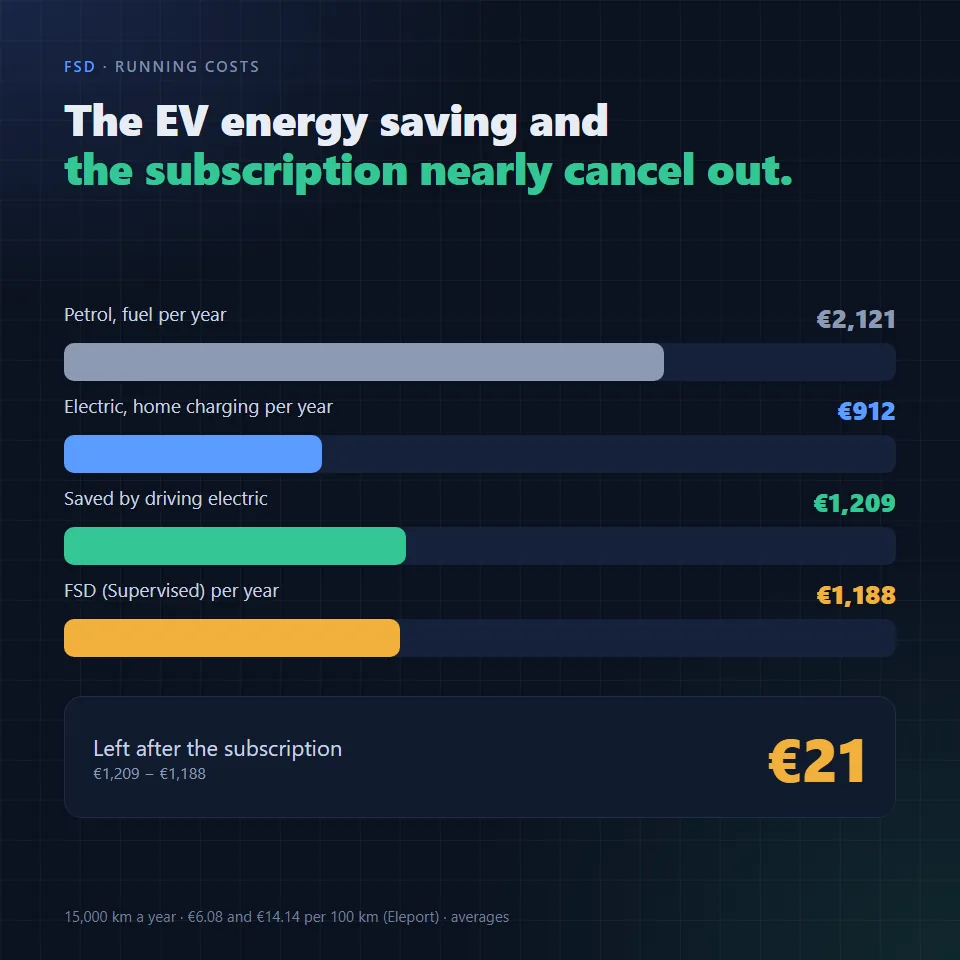
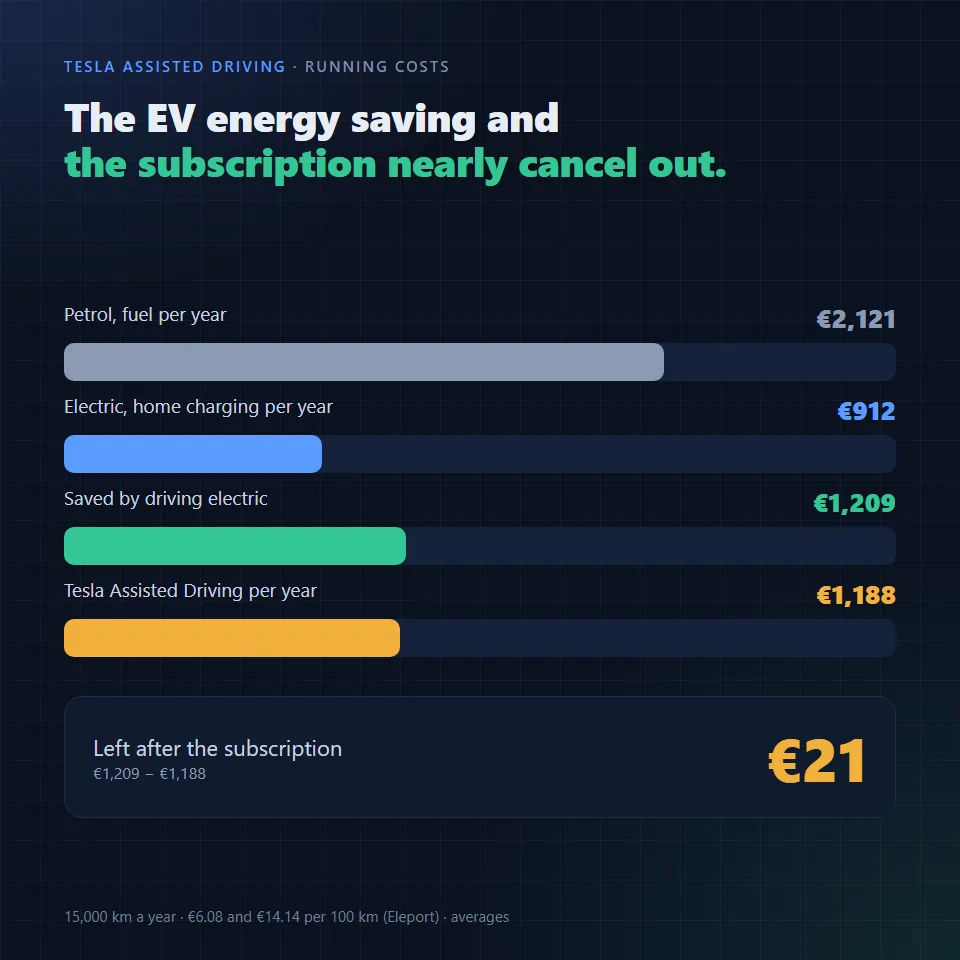
feat: call the current product Tesla Assisted Driving in the FSD draft, keep FSD where historical

Changed region(s): [[0.0625, 0.0625, 0.8125, 0.2188], [0.0625, 0.5938, 0.3438, 0.625]]

diff --git a/blog/content/tesla-fsd-subscription-europe/tr.md b/blog/content/tesla-fsd-subscription-europe/tr.md
@@ -1,6 +1,6 @@
 ---
-title: 'Zaten sahip olduğumuz donanım için her ay ödeme: Tesla’ya Avrupa’da FSD konusunda bir öneri'
-description: 'FSD (Supervised) Hollanda’da aylık €99. Bir Model Y sahibi tek seferlik satın alma ve peşin paketler öneriyor; maliyetler, AB kuralları, kaynaklar.'
+title: 'Zaten sahip olduğumuz donanım için her ay ödeme: Tesla’ya Avrupa’da Assisted Driving (FSD) için bir öneri'
+description: 'Tesla Assisted Driving (FSD) Hollanda’da aylık €99. Bir Model Y sahibi tek seferlik satın alma ve peşin paketler öneriyor; maliyetler ve kaynaklarla.'
 publishedAt: 2026-11-19
 topic: life
 kind: essay
@@ -31,15 +31,15 @@ translation:
   assistedByAi: true
 ---
 
-![Grafik: aylık €99 olan FSD (Supervised) aboneliği 1 yılda €1.188, 5 yılda €5.940 ve 10 yılda €11.880 tutuyor.](cost-over-time-tr.webp)
+![Grafik: aylık €99 olan Tesla Assisted Driving aboneliği 1 yılda €1.188, 5 yılda €5.940 ve 10 yılda €11.880 tutuyor.](cost-over-time-tr.webp)
 
-Hollanda’da Tesla FSD (Supervised) aylık €99 ve yeni alıcılar artık bu özelliği tek seferde satın alamıyor. Tesla’dan aylık aboneliğin yanında tek seferlik satın alma ve peşin ödemeli çok yıllık paketler sunmasını istiyorum. Bu yazıda gerçekleri, bir aracın ömrü boyunca maliyeti ve somut bir fiyat önerisini paylaşıyorum.
+Hollanda’da Tesla Assisted Driving, yani FSD (Supervised) olarak satılanın Avrupa’daki adı, aylık €99 ve yeni alıcılar artık bu özelliği tek seferde satın alamıyor. Tesla’dan aylık aboneliğin yanında tek seferlik satın alma ve peşin ödemeli çok yıllık paketler sunmasını istiyorum. Bu yazıda gerçekleri, bir aracın ömrü boyunca maliyeti ve somut bir fiyat önerisini paylaşıyorum.
 
 Amacım Tesla ile yapıcı bir diyalog kurmak, markaya saldırmak değil.
 
 ## Bu konu benim için neden önemli
 
-Bir Tesla Model Y Premium Long Range AWD satın aldım. Satın almadan önce test sürüşü yaptım ve birçok elektrikli aracı karşılaştırdım. Diğer markalarla kıyasladığımda Tesla deneyimim daha iyiydi, bu yüzden Tesla’yı seçtim. Gelecekte FSD desteği benim için önemliydi: ikinci el bir Model S Plaid’i, Hardware 3 bilgisayarı Avrupa’da yalnızca Hardware 4’lü araçlar için onaylanan FSD (Supervised)’ı desteklemediği için eledim. Tesla’da beğenmediğim tek şey, Avrupa’da Tesla Assisted Driving adıyla satılan sürüş desteğinin yalnızca abonelikle sunulması ve bence pahalı olması. Bu özelliklerin nasıl satıldığı da bu yüzden benim için önemli.
+Bir Tesla Model Y Premium Long Range AWD satın aldım. Satın almadan önce test sürüşü yaptım ve birçok elektrikli aracı karşılaştırdım. Diğer markalarla kıyasladığımda Tesla deneyimim daha iyiydi, bu yüzden Tesla’yı seçtim. Gelecekte Tesla Assisted Driving desteği benim için önemliydi: ikinci el bir Model S Plaid’i, Hardware 3 bilgisayarı onu desteklemediği ve Avrupa’da yalnızca Hardware 4’lü araçlar için onaylandığı için eledim. Tesla’da beğenmediğim tek şey, Tesla Assisted Driving’in yalnızca abonelikle sunulması ve bence pahalı olması. Bu özelliklerin nasıl satıldığı da bu yüzden benim için önemli.
 
 *Bu sayfadaki Tesla fotoğrafları benim aracıma ait değil. Wikimedia Commons’tan alındı.*
 
@@ -55,9 +55,9 @@ Bir Tesla Model Y Premium Long Range AWD satın aldım. Satın almadan önce tes
 
 Bu bilgiler, yazının sonunda listelenen kamuya açık kaynaklardan alındı.
 
-- Avrupa’da Tesla artık FSD (Supervised)’ı Tesla Assisted Driving adıyla satıyor ([Tesla Hollanda](https://www.tesla.com/nl_nl/tesla-assisted-driving)). Tesla’nın sayfası, şu anda sunulan özelliklerin sürücünün aktif gözetimini gerektirdiğini ve aracı otonom yapmadığını belirtiyor. Bu yazı, kaynakları kullandığı yerlerde FSD (Supervised) adını koruyor.
-- FSD (Supervised) Hollanda’da onaylandı. Hollanda araç kurumu RDW, 10 Nisan 2026’da Hardware 4’lü araçlar için onayladı; Electrek bunu Avrupa’daki ilk onay olarak bildiriyor ([Electrek, 14 Nisan 2026](https://electrek.co/2026/04/14/tesla-fsd-europe-hw3-owners-dutch-claim/)).
-- Hollanda’da FSD (Supervised), bir aylık deneme süresinin ardından aylık €99 ([teslablog.eu](https://teslablog.eu/blog/tesla-fsd-vs-enhanced-autopilot-europe-2026/), 3 Ekim 2026’da güncellendi; [Not a Tesla App](https://www.notateslaapp.com/news/3956/tesla-launches-fsd-subscriptions-in-the-netherlands)). Tesla’nın Hollanda sayfası bunu aylık €99’luk bir abonelik olarak listeliyor ve Model Y yapılandırıcısı, faturalandırma başlamadan önce bir aylık deneme süresi gösteriyor ([Tesla Hollanda](https://www.tesla.com/nl_nl/tesla-assisted-driving), [yapılandırıcı](https://www.tesla.com/nl_nl/modely/design), ikisi de 19 Kasım 2026’da kontrol edildi).
+- Avrupa’da Tesla, FSD (Supervised) olarak satılan ürünü artık Tesla Assisted Driving adıyla satıyor ([Tesla Hollanda](https://www.tesla.com/nl_nl/tesla-assisted-driving)). Tesla’nın sayfası, şu anda sunulan özelliklerin sürücünün aktif gözetimini gerektirdiğini ve aracı otonom yapmadığını belirtiyor. Bu yazı bugünkü ürün için Tesla Assisted Driving adını kullanıyor; kaynakların ve geçmişin FSD dediği yerlerde FSD’yi koruyor.
+- Hollanda araç kurumu RDW, FSD (Supervised)’ı (şimdiki adıyla Tesla Assisted Driving) 10 Nisan 2026’da Hardware 4’lü araçlar için onayladı; Electrek bunu Avrupa’daki ilk onay olarak bildiriyor ([Electrek, 14 Nisan 2026](https://electrek.co/2026/04/14/tesla-fsd-europe-hw3-owners-dutch-claim/)).
+- Hollanda’da Tesla Assisted Driving, bir aylık deneme süresinin ardından aylık €99 ([teslablog.eu](https://teslablog.eu/blog/tesla-fsd-vs-enhanced-autopilot-europe-2026/), 3 Ekim 2026’da güncellendi; [Not a Tesla App](https://www.notateslaapp.com/news/3956/tesla-launches-fsd-subscriptions-in-the-netherlands)). Tesla’nın Hollanda sayfası bunu aylık €99’luk bir abonelik olarak listeliyor ve Model Y yapılandırıcısı, faturalandırma başlamadan önce bir aylık deneme süresi gösteriyor ([Tesla Hollanda](https://www.tesla.com/nl_nl/tesla-assisted-driving), [yapılandırıcı](https://www.tesla.com/nl_nl/modely/design), ikisi de 19 Kasım 2026’da kontrol edildi).
 - Tek seferlik satın alma seçeneği kalktı. Hollanda’da 15 Mayıs 2026’da, Avrupa’nın geri kalanının çoğunda 21 Mayıs’ta sona erdi ([Not a Tesla App](https://www.notateslaapp.com/news/4104/tesla-to-end-one-time-fsd-purchases-across-europe-this-month), [InsideEVs](https://insideevs.com/news/796684/tesla-fsd-subscription-europe/)). O zamana kadar Hollanda yapılandırıcısında €7.500’dü ([Electrek, 12 Mayıs 2026](https://electrek.co/2026/05/12/tesla-removes-basic-autopilot-netherlands-fsd-only/)). Tesla’nın Hollanda Model Y yapılandırıcısında, 19 Kasım 2026’da kontrol edildiğinde, Tesla Assisted Driving yalnızca aylık abonelik olarak sunuluyor; tek seferlik satın alma seçeneği yok ([Tesla Hollanda yapılandırıcısı](https://www.tesla.com/nl_nl/modely/design)).
 - Electrek, Hollanda’daki baz araçta artık şerit ortalamanın (Autosteer) gelmediğini ve yeni siparişlerde Basic Autopilot’un artık seçenek olarak sunulmadığını bildiriyor; baz araçta yalnızca AB yasasının zorunlu kıldığı acil şerit koruma kalıyor ([Electrek, 12 Mayıs 2026](https://electrek.co/2026/05/12/tesla-removes-basic-autopilot-netherlands-fsd-only/)).
 - Kendi aracımda adaptif hız sabitleyici abonelik olmadan dahil, şerit ortalama (Autosteer) ise abonelik gerektiriyor.
@@ -81,7 +81,7 @@ Zaten €54.990 olan bir araç için (Model Y Premium Long Range AWD’nin Holla
 
 ## Elektrikliye geçişin tasarrufu nereye gidiyor
 
-![Grafik: 15.000 km için yıllık maliyet. Benzin yakıtı €2.121, elektrikle evde şarj €912, yani €1.209 tasarruf; yıllık €1.188’lik FSD (Supervised) aboneliği sonrası €21 kalıyor.](ev-saving-vs-subscription-tr.webp)
+![Grafik: 15.000 km için yıllık maliyet. Benzin yakıtı €2.121, elektrikle evde şarj €912, yani €1.209 tasarruf; yıllık €1.188’lik Tesla Assisted Driving aboneliği sonrası €21 kalıyor.](ev-saving-vs-subscription-tr.webp)
 
 İnsanlar elektrikli araca kısmen işletme maliyetlerini düşürmek için geçiyor. Abonelik bu tasarrufun büyük kısmını geri alıyor.
 
@@ -90,14 +90,14 @@ Yılda 15.000 km ve evde şarj için, Avrupa’daki bir karşılaştırmanın ([
 | Yıllık | Elektrikli | Benzinli | Fark |
 | --- | --- | --- | --- |
 | Enerji veya yakıt | €912 | €2.121 | €1.209 |
-| FSD (Supervised) aboneliği | €1.188 | - | |
+| Tesla Assisted Driving aboneliği | €1.188 | - | |
 | Abonelik sonrası kalan | | | €21 |
 
 Elektrikli araç enerjide yılda €1.209 tasarruf ettiriyor; abonelikten sonra €21 kalıyor.
 
 Hesaplamada evde şarj için 100 km başına €6,08, benzin için €14,14 baz alındı. Bakımdaki tasarruf da sınırlı. İngiltere verilerine göre lastik dahil yıllık bakım, elektrikli araçta £720 ile £1.180, benzinli veya dizel araçta £820 ile £1.530 arasında ([Dick Lovett](https://www.dicklovett.co.uk/electric/guides/electric-car-maintenance-costs)). Bu sayfayı kendim açamadım; rakamlar arama sonucundaki özetten, bu yüzden temkinle okuyun.
 
-Elektrikli araçların toplamda daha pahalı olduğunu iddia etmiyorum. Satın alma fiyatı, vergiler, sigorta ve değer kaybı toplamı değiştirir. Söylediğim daha dar kapsamlı: FSD’ye abone olan bir sahip, enerji tasarrufunun neredeyse tamamını geri ödüyor ve birçok insan için bu tasarruf elektrikliye geçmenin başlıca sebeplerinden biri. Bu, Tesla’nın dünyanın sürdürülebilir enerjiye geçişini hızlandırma yönündeki uzun süredir bilinen misyonuyla zor bağdaşıyor; şirket misyon cümlesini sonradan değiştirmiş olsa da ([Gizmodo](https://gizmodo.com/elon-musk-has-changed-his-mission-statement-2000721530)).
+Elektrikli araçların toplamda daha pahalı olduğunu iddia etmiyorum. Satın alma fiyatı, vergiler, sigorta ve değer kaybı toplamı değiştirir. Söylediğim daha dar kapsamlı: Tesla Assisted Driving’e abone olan bir sahip, enerji tasarrufunun neredeyse tamamını geri ödüyor ve birçok insan için bu tasarruf elektrikliye geçmenin başlıca sebeplerinden biri. Bu, Tesla’nın dünyanın sürdürülebilir enerjiye geçişini hızlandırma yönündeki uzun süredir bilinen misyonuyla zor bağdaşıyor; şirket misyon cümlesini sonradan değiştirmiş olsa da ([Gizmodo](https://gizmodo.com/elon-musk-has-changed-his-mission-statement-2000721530)).
 
 *Bunlar AB ortalamaları. Bir Model Y varsayılan 100 km başına 21 kWh’den daha az tüketebilir ve Hollanda tarifeleri farklı. Sonuç elektrik tarifene, kilometrene ve yerel yakıt fiyatlarına bağlı.*
 
@@ -105,7 +105,7 @@ Elektrikli araçların toplamda daha pahalı olduğunu iddia etmiyorum. Satın a
 
 Aşağıdakiler benim görüşüm.
 
-Donanım zaten araçta ve parası ödendi. Her yeni Model Y, Tesla’nın FSD (Supervised) için kullandığı bilgisayar ve kameralarla geliyor ve alıcı bunların bedelini satın alma fiyatında ödüyor. Zaten sahip olduğum donanımı kullanmak için her ay ödemek, sahiplikten çok kiralamaya benziyor.
+Donanım zaten araçta ve parası ödendi. Her yeni Model Y, Tesla’nın Tesla Assisted Driving için kullandığı bilgisayar ve kameralarla geliyor ve alıcı bunların bedelini satın alma fiyatında ödüyor. Zaten sahip olduğum donanımı kullanmak için her ay ödemek, sahiplikten çok kiralamaya benziyor.
 
 Satın alma seçeneğinin kalkması tercih hakkını ortadan kaldırıyor. Bazı sahipler aylık ödemeyi tercih eder. Bazıları ise bir kez ödeyip özelliği araç kendisinde olduğu sürece kullanmak ister. Sadece abonelik sunmak bu tercihi elinden alıyor.
 
@@ -143,7 +143,7 @@ Bence bazı müşterilerin eleştirdiği bir modeli değiştirmek markayı güç
 
 1. Tek seferlik satın almayı geri getirin. Sahipler aylık abonelik ile araca bağlı ömür boyu lisans arasında seçim yapabilsin.
 2. Şerit ortalamayı yeniden standart yapın. Artık dahil değilse, her yeni araçla yeniden gelmeli.
-3. Daha uygun fiyatlı bir paket ekleyin; örneğin sadece otoyol asistanı, tam FSD (Supervised) ise premium seçenek olsun.
+3. Daha uygun fiyatlı bir paket ekleyin; örneğin sadece otoyol asistanı, tam Tesla Assisted Driving ise premium seçenek olsun.
 4. Uzun süreli taahhüdü ödüllendiren indirimli, peşin ödemeli yıllık ve çok yıllık paketler sunun.
 5. Satın alınan lisansı devredilebilir yapın, araç satıldığında araçla birlikte kalsın.
 6. Aboneliğin her ülkede neler sunduğunu ve onayın nerede beklendiğini açıkça gösterin.
@@ -170,7 +170,7 @@ Fiyatını Tesla’nın belirlediği bir ömür boyu lisans araçla birlikte kal
 Peşin paketler için adil koşullar:
 
 - Araç satılırsa kalan süre araçla birlikte devredilir ya da orantılı olarak iade edilir.
-- FSD (Supervised) sahibin ülkesinde henüz onaylı değilse, peşin süre onaydan sonra başlar.
+- Tesla Assisted Driving sahibin ülkesinde henüz onaylı değilse, peşin süre onaydan sonra başlar.
 - Ara sıra ihtiyaç duyanlar için aylık seçenek devam eder; örneğin bir tatil veya uzun bir yolculuk için.
 
 ## Bu neden Tesla için de iyi olabilir
@@ -183,7 +183,7 @@ Peşin paketler için adil koşullar:
 
 ## Beklediğim sorular
 
-### Abonelik, FSD’ye ara sıra ihtiyaç duyanlar için iyi değil mi?
+### Abonelik, Tesla Assisted Driving’e ara sıra ihtiyaç duyanlar için iyi değil mi?
 
 Evet. Bu yüzden Tesla’dan aylık seçeneği kaldırmasını değil, yanına yeni seçenekler eklemesini istiyorum.
 

diff --git a/blog/content/tesla-fsd-subscription-europe/en.md b/blog/content/tesla-fsd-subscription-europe/en.md
@@ -1,6 +1,6 @@
 ---
-title: 'Paying monthly for hardware we already own: a proposal to Tesla on FSD in Europe'
-description: 'FSD (Supervised) costs €99 a month in the Netherlands. A Model Y owner''s case for a one-time purchase and prepaid plans, with costs, EU rules and sources.'
+title: 'Paying monthly for hardware we already own: a proposal to Tesla on Assisted Driving (FSD) in Europe'
+description: 'Tesla Assisted Driving (FSD) costs €99 a month in the Netherlands. A Model Y owner''s case for a one-time purchase and prepaid plans, with costs and sources.'
 publishedAt: 2026-11-19
 topic: life
 kind: essay
@@ -10,7 +10,7 @@ cover: cover-model-y-performance.webp
 evidence:
   confidence: 'Medium. The prices and the cost tables are my own arithmetic from the figures in the sources. The sources are news and comparison sites, read on 2026-11-19, and prices in a configurator can change. The UK maintenance figures come from a search result because the page itself could not be opened, so treat them as low confidence. The proposal is my opinion, not a finding.'
   basedOn:
-    - 'Public reporting on Tesla FSD (Supervised) in the Netherlands and Europe: Electrek, teslablog.eu, TeslAnt, Hoopoz, ArenaEV, autoevolution and Not a Tesla App, listed at the end'
+    - 'Public reporting on Tesla FSD (Supervised) in the Netherlands and Europe: Electrek, teslablog.eu, Not a Tesla App, InsideEVs, ArenaEV and Evannex, listed at the end'
     - 'An energy cost comparison (Eleport) and UK maintenance figures (Dick Lovett)'
     - 'The texts of the EU directives and the General Safety Regulation on EUR-Lex'
     - 'My own experience as a new owner of a Tesla Model Y'
@@ -29,15 +29,15 @@ aiAssistance:
     - 'Claude converted my draft to the blog format; I decide what is published'
 ---
 
-![Chart: the FSD (Supervised) subscription at 99 euros a month adds up to 1,188 euros after 1 year, 5,940 euros after 5 years and 11,880 euros after 10 years.](cost-over-time-en.webp)
+![Chart: the Tesla Assisted Driving subscription at 99 euros a month adds up to 1,188 euros after 1 year, 5,940 euros after 5 years and 11,880 euros after 10 years.](cost-over-time-en.webp)
 
-In the Netherlands, Tesla FSD (Supervised) costs €99 a month, and new buyers can no longer pay once and own it. I am asking Tesla to offer a one-time purchase and prepaid multi-year plans next to the monthly subscription. This article sets out the facts, the cost over the life of a car and a concrete pricing proposal.
+In the Netherlands, Tesla Assisted Driving, the European name for what was sold as FSD (Supervised), costs €99 a month, and new buyers can no longer pay once and own it. I am asking Tesla to offer a one-time purchase and prepaid multi-year plans next to the monthly subscription. This article sets out the facts, the cost over the life of a car and a concrete pricing proposal.
 
 My goal is a constructive conversation with Tesla, not an attack on the brand.
 
 ## Why this matters to me
 
-I bought a Tesla Model Y Premium Long Range AWD. Before buying, I took a test drive and compared several electric cars. Compared with the other brands, my experience with Tesla was better, so I chose Tesla. Future FSD support mattered to me: I ruled out a used Model S Plaid because its Hardware 3 computer would not support FSD (Supervised), which in Europe is approved for Hardware 4 cars only. The one thing I do not like about Tesla is that its driver assistance, sold in Europe as Tesla Assisted Driving, is subscription-only and, in my view, expensive. That is why the way these features are sold matters to me.
+I bought a Tesla Model Y Premium Long Range AWD. Before buying, I took a test drive and compared several electric cars. Compared with the other brands, my experience with Tesla was better, so I chose Tesla. Future Tesla Assisted Driving support mattered to me: I ruled out a used Model S Plaid because its Hardware 3 computer would not support it, and in Europe it is approved for Hardware 4 cars only. The one thing I do not like about Tesla is that Tesla Assisted Driving is subscription-only and, in my view, expensive. That is why the way these features are sold matters to me.
 
 *The Tesla photos on this page are not of my car. They come from Wikimedia Commons.*
 
@@ -53,9 +53,9 @@ I bought a Tesla Model Y Premium Long Range AWD. Before buying, I took a test dr
 
 These points come from public sources, listed at the end of this article.
 
-- In Europe, Tesla now sells FSD (Supervised) under the name Tesla Assisted Driving ([Tesla Netherlands](https://www.tesla.com/nl_nl/tesla-assisted-driving)). Tesla's page says the features currently available require active driver supervision and do not make the car autonomous. This article keeps the name FSD (Supervised) where its sources use it.
-- FSD (Supervised) is approved in the Netherlands. The Dutch vehicle authority RDW approved it on 10 April 2026 for cars with Hardware 4, and Electrek reports it as the first approval in Europe ([Electrek, 14 April 2026](https://electrek.co/2026/04/14/tesla-fsd-europe-hw3-owners-dutch-claim/)).
-- In the Netherlands, FSD (Supervised) costs €99 a month after a one-month trial ([teslablog.eu](https://teslablog.eu/blog/tesla-fsd-vs-enhanced-autopilot-europe-2026/), updated 3 October 2026; [Not a Tesla App](https://www.notateslaapp.com/news/3956/tesla-launches-fsd-subscriptions-in-the-netherlands)). Tesla's Dutch page lists it as a subscription at €99 a month, and the Model Y configurator shows a one-month trial before billing starts ([Tesla Netherlands](https://www.tesla.com/nl_nl/tesla-assisted-driving), [configurator](https://www.tesla.com/nl_nl/modely/design), both checked on 19 November 2026).
+- In Europe, Tesla now sells what was FSD (Supervised) as Tesla Assisted Driving ([Tesla Netherlands](https://www.tesla.com/nl_nl/tesla-assisted-driving)). Tesla's page says the features currently available require active driver supervision and do not make the car autonomous. This article uses Tesla Assisted Driving for today's product and keeps FSD where its sources and the history use it.
+- The Dutch vehicle authority RDW approved FSD (Supervised), now sold as Tesla Assisted Driving, on 10 April 2026 for cars with Hardware 4, and Electrek reports it as the first approval in Europe ([Electrek, 14 April 2026](https://electrek.co/2026/04/14/tesla-fsd-europe-hw3-owners-dutch-claim/)).
+- In the Netherlands, Tesla Assisted Driving costs €99 a month after a one-month trial ([teslablog.eu](https://teslablog.eu/blog/tesla-fsd-vs-enhanced-autopilot-europe-2026/), updated 3 October 2026; [Not a Tesla App](https://www.notateslaapp.com/news/3956/tesla-launches-fsd-subscriptions-in-the-netherlands)). Tesla's Dutch page lists it as a subscription at €99 a month, and the Model Y configurator shows a one-month trial before billing starts ([Tesla Netherlands](https://www.tesla.com/nl_nl/tesla-assisted-driving), [configurator](https://www.tesla.com/nl_nl/modely/design), both checked on 19 November 2026).
 - The one-time purchase option is gone. It ended on 15 May 2026 in the Netherlands and on 21 May in most of the rest of Europe ([Not a Tesla App](https://www.notateslaapp.com/news/4104/tesla-to-end-one-time-fsd-purchases-across-europe-this-month), [InsideEVs](https://insideevs.com/news/796684/tesla-fsd-subscription-europe/)). Until then it cost €7,500 in the Dutch configurator ([Electrek, 12 May 2026](https://electrek.co/2026/05/12/tesla-removes-basic-autopilot-netherlands-fsd-only/)). In Tesla's Dutch Model Y configurator, checked on 19 November 2026, Tesla Assisted Driving is offered only as a monthly subscription, with no one-time purchase option ([Tesla Netherlands configurator](https://www.tesla.com/nl_nl/modely/design)).
 - Electrek reports that the Dutch base car no longer comes with lane centering (Autosteer) and that Basic Autopilot is no longer an option on new orders; the base car keeps only the emergency lane-keeping that EU law requires ([Electrek, 12 May 2026](https://electrek.co/2026/05/12/tesla-removes-basic-autopilot-netherlands-fsd-only/)).
 - In my own car, adaptive cruise control is included without the subscription, and lane centering (Autosteer) needs the subscription.
@@ -79,7 +79,7 @@ For a car that already costs €54,990 (the Dutch configurator price of the Mode
 
 ## Where the savings of going electric end up
 
-![Chart: yearly cost at 15,000 km. Petrol fuel 2,121 euros, electric home charging 912 euros, a saving of 1,209 euros, against an FSD (Supervised) subscription of 1,188 euros, which leaves 21 euros.](ev-saving-vs-subscription-en.webp)
+![Chart: yearly cost at 15,000 km. Petrol fuel 2,121 euros, electric home charging 912 euros, a saving of 1,209 euros, against a Tesla Assisted Driving subscription of 1,188 euros, which leaves 21 euros.](ev-saving-vs-subscription-en.webp)
 
 People switch to an electric car partly to lower their running costs. The subscription takes back most of that saving.
 
@@ -88,14 +88,14 @@ Example for 15,000 km a year with home charging, using the cost per 100 km from 
 | Per year | Electric | Petrol | Difference |
 | --- | --- | --- | --- |
 | Energy or fuel | €912 | €2,121 | €1,209 |
-| FSD (Supervised) subscription | €1,188 | - | |
+| Tesla Assisted Driving subscription | €1,188 | - | |
 | Left after the subscription | | | €21 |
 
 The EV saves €1,209 a year on energy; after the subscription, €21 is left.
 
 The calculation uses €6.08 per 100 km for home charging and €14.14 per 100 km for petrol. Maintenance savings are also modest. UK figures put yearly maintenance, including tires, at £720 to £1,180 for an EV and £820 to £1,530 for a petrol or diesel car ([Dick Lovett](https://www.dicklovett.co.uk/electric/guides/electric-car-maintenance-costs)). I could not open that page myself; the figures come from its search-result summary, so treat them with caution.
 
-I am not claiming that electric cars cost more overall. Purchase price, taxes, insurance and depreciation all change the total. My point is narrower: an owner who subscribes to FSD gives back almost the entire energy saving, and for many people that saving is a main reason to switch. That sits uneasily with Tesla's long-standing mission to accelerate the world's transition to sustainable energy, even if the company has since rephrased it ([Gizmodo](https://gizmodo.com/elon-musk-has-changed-his-mission-statement-2000721530)).
+I am not claiming that electric cars cost more overall. Purchase price, taxes, insurance and depreciation all change the total. My point is narrower: an owner who subscribes to Tesla Assisted Driving gives back almost the entire energy saving, and for many people that saving is a main reason to switch. That sits uneasily with Tesla's long-standing mission to accelerate the world's transition to sustainable energy, even if the company has since rephrased it ([Gizmodo](https://gizmodo.com/elon-musk-has-changed-his-mission-statement-2000721530)).
 
 *These are EU averages. A Model Y may use less than the 21 kWh per 100 km assumed, and Dutch tariffs differ. Your result depends on your electricity tariff, mileage and local fuel prices.*
 
@@ -103,7 +103,7 @@ I am not claiming that electric cars cost more overall. Purchase price, taxes, i
 
 The points below are my opinion.
 
-The hardware is already in the car and already paid for. Every new Model Y comes with the computer and cameras Tesla uses for FSD (Supervised), and the buyer pays for them in the purchase price. A monthly fee to use hardware I already own feels closer to renting than to owning.
+The hardware is already in the car and already paid for. Every new Model Y comes with the computer and cameras Tesla uses for Tesla Assisted Driving, and the buyer pays for them in the purchase price. A monthly fee to use hardware I already own feels closer to renting than to owning.
 
 Removing the purchase option removes choice. Some owners prefer to pay monthly. Others prefer to pay once and keep the feature for the life of the car. A subscription-only model takes that choice away.
 
@@ -141,7 +141,7 @@ In my view, adjusting a model that some customers criticise can strengthen a bra
 
 1. Bring back a one-time purchase. Let owners choose between a monthly subscription and a lifetime license tied to the car.
 2. Restore lane centering as standard. If it is no longer included, every new car should come with it again.
-3. Add a lower-priced tier, for example highway assistance only, with full FSD (Supervised) as the premium option.
+3. Add a lower-priced tier, for example highway assistance only, with full Tesla Assisted Driving as the premium option.
 4. Offer prepaid annual and multi-year plans with a discount that rewards longer commitments.
 5. Make a purchased license transferable, so it stays with the car when it is sold.
 6. Show per country what the subscription delivers and where approval is still pending.
@@ -168,7 +168,7 @@ The 5-year plan costs about €119 more (€118.80) than the 4-year plan for a f
 Fair conditions for prepaid plans:
 
 - If the car is sold, the remaining period stays with the car or is refunded pro rata.
-- If FSD (Supervised) is not yet approved in the owner's country, the prepaid period starts only after approval.
+- If Tesla Assisted Driving is not yet approved in the owner's country, the prepaid period starts only after approval.
 - The monthly option stays for owners who need it occasionally, for example for a holiday or a long trip.
 
 ## Why this could be good for Tesla too
@@ -181,7 +181,7 @@ Fair conditions for prepaid plans:
 
 ## Questions I expect
 
-### Isn't a subscription good for people who only need FSD occasionally?
+### Isn't a subscription good for people who only need Tesla Assisted Driving occasionally?
 
 Yes. That is why I am not asking Tesla to remove the monthly option, only to add choices next to it.
 

diff --git a/blog/content/tesla-fsd-subscription-europe/nl.md b/blog/content/tesla-fsd-subscription-europe/nl.md
@@ -1,6 +1,6 @@
 ---
-title: 'Maandelijks betalen voor hardware die we al bezitten: een voorstel aan Tesla over FSD in Europa'
-description: 'FSD (Supervised) kost in Nederland €99 per maand. Een Model Y-eigenaar pleit voor eenmalige aankoop en prepaid-pakketten, met kosten, EU-regels en bronnen.'
+title: 'Maandelijks betalen voor hardware die we al bezitten: een voorstel aan Tesla over Assisted Driving (FSD)'
+description: 'Tesla Assisted Driving (FSD) kost in Nederland €99 per maand. Een Model Y-eigenaar pleit voor eenmalige aankoop en prepaid-pakketten, met kosten en bronnen.'
 publishedAt: 2026-11-19
 topic: life
 kind: essay
@@ -31,15 +31,15 @@ translation:
   assistedByAi: true
 ---
 
-![Grafiek: het FSD (Supervised)-abonnement van €99 per maand loopt op tot €1.188 na 1 jaar, €5.940 na 5 jaar en €11.880 na 10 jaar.](cost-over-time-nl.webp)
+![Grafiek: het Tesla Assisted Driving-abonnement van €99 per maand loopt op tot €1.188 na 1 jaar, €5.940 na 5 jaar en €11.880 na 10 jaar.](cost-over-time-nl.webp)
 
-In Nederland kost Tesla FSD (Supervised) €99 per maand, en nieuwe kopers kunnen het niet meer eenmalig kopen. Ik vraag Tesla om naast het maandabonnement een eenmalige aankoop en vooruitbetaalde meerjarenpakketten aan te bieden. In dit artikel zet ik de feiten op een rij, de kosten over de levensduur van een auto en een concreet prijsvoorstel.
+In Nederland kost Tesla Assisted Driving, de Europese naam voor wat als FSD (Supervised) werd verkocht, €99 per maand, en nieuwe kopers kunnen het niet meer eenmalig kopen. Ik vraag Tesla om naast het maandabonnement een eenmalige aankoop en vooruitbetaalde meerjarenpakketten aan te bieden. In dit artikel zet ik de feiten op een rij, de kosten over de levensduur van een auto en een concreet prijsvoorstel.
 
 Mijn doel is een constructief gesprek met Tesla, geen aanval op het merk.
 
 ## Waarom dit voor mij belangrijk is
 
-Ik kocht een Tesla Model Y Premium Long Range AWD. Voor de aankoop maakte ik een proefrit en vergeleek ik meerdere elektrische auto’s. Vergeleken met de andere merken was mijn ervaring met Tesla beter, dus koos ik voor Tesla. Toekomstige FSD-ondersteuning was voor mij belangrijk: ik viel af op een tweedehands Model S Plaid, omdat de Hardware 3-computer daarvan FSD (Supervised) niet ondersteunt, dat in Europa alleen voor auto’s met Hardware 4 is goedgekeurd. Het enige wat ik niet leuk vind aan Tesla is dat de rijassistentie, in Europa verkocht als Tesla Assisted Driving, alleen als abonnement beschikbaar is en volgens mij duur is. Daarom is de manier waarop deze functies worden verkocht belangrijk voor mij.
+Ik kocht een Tesla Model Y Premium Long Range AWD. Voor de aankoop maakte ik een proefrit en vergeleek ik meerdere elektrische auto’s. Vergeleken met de andere merken was mijn ervaring met Tesla beter, dus koos ik voor Tesla. Toekomstige ondersteuning voor Tesla Assisted Driving was voor mij belangrijk: ik viel af op een tweedehands Model S Plaid, omdat de Hardware 3-computer daarvan het niet ondersteunt en het in Europa alleen voor auto’s met Hardware 4 is goedgekeurd. Het enige wat ik niet leuk vind aan Tesla is dat Tesla Assisted Driving alleen als abonnement beschikbaar is en volgens mij duur is. Daarom is de manier waarop deze functies worden verkocht belangrijk voor mij.
 
 *De Tesla-foto’s op deze pagina zijn niet van mijn auto. Ze komen van Wikimedia Commons.*
 
@@ -55,9 +55,9 @@ Ik kocht een Tesla Model Y Premium Long Range AWD. Voor de aankoop maakte ik een
 
 Deze punten komen uit openbare bronnen, die onderaan dit artikel staan.
 
-- In Europa verkoopt Tesla FSD (Supervised) inmiddels onder de naam Tesla Assisted Driving ([Tesla Nederland](https://www.tesla.com/nl_nl/tesla-assisted-driving)). Volgens de pagina van Tesla vereisen de nu beschikbare functies actief toezicht van de bestuurder en maken ze de auto niet autonoom. Dit artikel houdt de naam FSD (Supervised) aan waar de bronnen die gebruiken.
-- FSD (Supervised) is goedgekeurd in Nederland. De RDW keurde het op 10 april 2026 goed voor auto’s met Hardware 4, en Electrek meldt het als de eerste goedkeuring in Europa ([Electrek, 14 april 2026](https://electrek.co/2026/04/14/tesla-fsd-europe-hw3-owners-dutch-claim/)).
-- In Nederland kost FSD (Supervised) €99 per maand na een proefperiode van een maand ([teslablog.eu](https://teslablog.eu/blog/tesla-fsd-vs-enhanced-autopilot-europe-2026/), bijgewerkt op 3 oktober 2026; [Not a Tesla App](https://www.notateslaapp.com/news/3956/tesla-launches-fsd-subscriptions-in-the-netherlands)). De Nederlandse pagina van Tesla noemt het een abonnement van €99 per maand, en de Model Y-configurator toont een proefperiode van een maand voordat de betaling begint ([Tesla Nederland](https://www.tesla.com/nl_nl/tesla-assisted-driving), [configurator](https://www.tesla.com/nl_nl/modely/design), beide gecontroleerd op 19 november 2026).
+- In Europa verkoopt Tesla wat FSD (Supervised) was nu als Tesla Assisted Driving ([Tesla Nederland](https://www.tesla.com/nl_nl/tesla-assisted-driving)). Volgens de pagina van Tesla vereisen de nu beschikbare functies actief toezicht van de bestuurder en maken ze de auto niet autonoom. Dit artikel gebruikt Tesla Assisted Driving voor het huidige product en houdt FSD aan waar bronnen en geschiedenis die naam gebruiken.
+- De RDW keurde FSD (Supervised), nu verkocht als Tesla Assisted Driving, op 10 april 2026 goed voor auto’s met Hardware 4, en Electrek meldt het als de eerste goedkeuring in Europa ([Electrek, 14 april 2026](https://electrek.co/2026/04/14/tesla-fsd-europe-hw3-owners-dutch-claim/)).
+- In Nederland kost Tesla Assisted Driving €99 per maand na een proefperiode van een maand ([teslablog.eu](https://teslablog.eu/blog/tesla-fsd-vs-enhanced-autopilot-europe-2026/), bijgewerkt op 3 oktober 2026; [Not a Tesla App](https://www.notateslaapp.com/news/3956/tesla-launches-fsd-subscriptions-in-the-netherlands)). De Nederlandse pagina van Tesla noemt het een abonnement van €99 per maand, en de Model Y-configurator toont een proefperiode van een maand voordat de betaling begint ([Tesla Nederland](https://www.tesla.com/nl_nl/tesla-assisted-driving), [configurator](https://www.tesla.com/nl_nl/modely/design), beide gecontroleerd op 19 november 2026).
 - Eenmalige aankoop is niet meer mogelijk. Die optie eindigde op 15 mei 2026 in Nederland en op 21 mei in het grootste deel van de rest van Europa ([Not a Tesla App](https://www.notateslaapp.com/news/4104/tesla-to-end-one-time-fsd-purchases-across-europe-this-month), [InsideEVs](https://insideevs.com/news/796684/tesla-fsd-subscription-europe/)). Tot dan kostte het €7.500 in de Nederlandse configurator ([Electrek, 12 mei 2026](https://electrek.co/2026/05/12/tesla-removes-basic-autopilot-netherlands-fsd-only/)). In de Nederlandse Model Y-configurator van Tesla, gecontroleerd op 19 november 2026, wordt Tesla Assisted Driving alleen als maandabonnement aangeboden, zonder optie voor eenmalige aankoop ([Tesla Nederland, configurator](https://www.tesla.com/nl_nl/modely/design)).
 - Electrek meldt dat de Nederlandse basisauto niet langer rijstrookcentrering (Autosteer) heeft en dat Basic Autopilot bij nieuwe bestellingen niet meer als optie wordt aangeboden; de basisauto houdt alleen de noodrijstrookassistentie die de EU voorschrijft ([Electrek, 12 mei 2026](https://electrek.co/2026/05/12/tesla-removes-basic-autopilot-netherlands-fsd-only/)).
 - In mijn eigen auto is adaptieve cruisecontrol zonder abonnement inbegrepen, en voor rijstrookcentrering (Autosteer) is het abonnement nodig.
@@ -81,7 +81,7 @@ Voor een auto die al €54.990 kost (de prijs van de Model Y Premium Long Range 
 
 ## Waar de besparing van elektrisch rijden blijft
 
-![Grafiek: jaarlijkse kosten bij 15.000 km. Benzine €2.121, elektrisch thuisladen €912, een besparing van €1.209, tegenover een FSD (Supervised)-abonnement van €1.188, waarmee €21 overblijft.](ev-saving-vs-subscription-nl.webp)
+![Grafiek: jaarlijkse kosten bij 15.000 km. Benzine €2.121, elektrisch thuisladen €912, een besparing van €1.209, tegenover een Tesla Assisted Driving-abonnement van €1.188, waarmee €21 overblijft.](ev-saving-vs-subscription-nl.webp)
 
 Mensen stappen onder meer over op een elektrische auto om hun gebruikskosten te verlagen. Het abonnement neemt het grootste deel van die besparing weer terug.
 
@@ -90,14 +90,14 @@ Voorbeeld bij 15.000 km per jaar met thuisladen, op basis van de kosten per 100 
 | Per jaar | Elektrisch | Benzine | Verschil |
 | --- | --- | --- | --- |
 | Energie of brandstof | €912 | €2.121 | €1.209 |
-| FSD (Supervised)-abonnement | €1.188 | - | |
+| Tesla Assisted Driving-abonnement | €1.188 | - | |
 | Over na het abonnement | | | €21 |
 
 De EV bespaart €1.209 per jaar op energie; na het abonnement blijft €21 over.
 
 De berekening gaat uit van €6,08 per 100 km voor thuisladen en €14,14 per 100 km voor benzine. Ook de besparing op onderhoud is beperkt. Britse cijfers komen inclusief banden uit op £720 tot £1.180 per jaar voor een EV en £820 tot £1.530 voor een benzine- of dieselauto ([Dick Lovett](https://www.dicklovett.co.uk/electric/guides/electric-car-maintenance-costs)). Ik kon die pagina zelf niet openen; de cijfers komen uit de samenvatting in het zoekresultaat, dus wees voorzichtig.
 
-Ik beweer niet dat elektrische auto’s in totaal duurder zijn. Aanschafprijs, belastingen, verzekering en waardeverlies veranderen het totaal. Mijn punt is specifieker: wie zich abonneert op FSD, levert bijna de hele energiebesparing in, en voor veel mensen is die besparing een belangrijke reden om over te stappen. Dat past slecht bij Tesla’s al langer bestaande missie om de wereldwijde overgang naar duurzame energie te versnellen, ook al heeft het bedrijf die zin inmiddels anders geformuleerd ([Gizmodo](https://gizmodo.com/elon-musk-has-changed-his-mission-statement-2000721530)).
+Ik beweer niet dat elektrische auto’s in totaal duurder zijn. Aanschafprijs, belastingen, verzekering en waardeverlies veranderen het totaal. Mijn punt is specifieker: wie zich abonneert op Tesla Assisted Driving, levert bijna de hele energiebesparing in, en voor veel mensen is die besparing een belangrijke reden om over te stappen. Dat past slecht bij Tesla’s al langer bestaande missie om de wereldwijde overgang naar duurzame energie te versnellen, ook al heeft het bedrijf die zin inmiddels anders geformuleerd ([Gizmodo](https://gizmodo.com/elon-musk-has-changed-his-mission-statement-2000721530)).
 
 *Dit zijn EU-gemiddelden. Een Model Y kan minder verbruiken dan de aangenomen 21 kWh per 100 km, en Nederlandse tarieven wijken af. Uw uitkomst hangt af van uw stroomtarief, kilometers en lokale brandstofprijzen.*
 
@@ -105,7 +105,7 @@ Ik beweer niet dat elektrische auto’s in totaal duurder zijn. Aanschafprijs, b
 
 De punten hieronder zijn mijn mening.
 
-De hardware zit al in de auto en is al betaald. Elke nieuwe Model Y heeft de computer en camera’s die Tesla gebruikt voor FSD (Supervised), en de koper betaalt ervoor in de aanschafprijs. Maandelijks betalen voor hardware die ik al bezit, voelt meer als huren dan als bezitten.
+De hardware zit al in de auto en is al betaald. Elke nieuwe Model Y heeft de computer en camera’s die Tesla gebruikt voor Tesla Assisted Driving, en de koper betaalt ervoor in de aanschafprijs. Maandelijks betalen voor hardware die ik al bezit, voelt meer als huren dan als bezitten.
 
 Zonder aankoopoptie verdwijnt de keuze. Sommige eigenaren betalen liever maandelijks. Anderen betalen liever één keer en houden de functie zolang ze de auto hebben. Alleen een abonnement neemt die keuze weg.
 
@@ -143,7 +143,7 @@ Volgens mij kan het aanpassen van een model waar sommige klanten kritiek op hebb
 
 1. Breng de eenmalige aankoop terug. Laat eigenaren kiezen tussen een maandabonnement en een levenslange licentie die aan de auto gekoppeld is.
 2. Maak rijstrookcentrering weer standaard. Als die niet meer is inbegrepen, moet elke nieuwe auto die weer krijgen.
-3. Voeg een goedkoper pakket toe, bijvoorbeeld alleen snelwegassistentie, met volledige FSD (Supervised) als premiumoptie.
+3. Voeg een goedkoper pakket toe, bijvoorbeeld alleen snelwegassistentie, met volledige Tesla Assisted Driving als premiumoptie.
 4. Bied vooruitbetaalde jaar- en meerjarenpakketten aan, met een korting die langere looptijden beloont.
 5. Maak een gekochte licentie overdraagbaar, zodat die bij verkoop bij de auto blijft.
 6. Laat per land zien wat het abonnement levert en waar de goedkeuring nog ontbreekt.
@@ -170,7 +170,7 @@ Het 5-jarenpakket kost ongeveer €119 (€118,80) meer dan het 4-jarenpakket vo
 Eerlijke voorwaarden voor vooruitbetaalde pakketten:
 
 - Bij verkoop van de auto gaat de resterende periode mee met de auto of wordt die naar rato terugbetaald.
-- Is FSD (Supervised) in het land van de eigenaar nog niet goedgekeurd, dan start de vooruitbetaalde periode pas na goedkeuring.
+- Is Tesla Assisted Driving in het land van de eigenaar nog niet goedgekeurd, dan start de vooruitbetaalde periode pas na goedkeuring.
 - Het maandabonnement blijft bestaan voor wie het af en toe nodig heeft, bijvoorbeeld voor een vakantie of een lange reis.
 
 ## Waarom dit ook goed kan zijn voor Tesla
@@ -183,7 +183,7 @@ Eerlijke voorwaarden voor vooruitbetaalde pakketten:
 
 ## Vragen die ik verwacht
 
-### Is een abonnement niet juist handig voor wie FSD af en toe nodig heeft?
+### Is een abonnement niet juist handig voor wie Tesla Assisted Driving af en toe nodig heeft?
 
 Ja. Daarom vraag ik Tesla niet om het maandabonnement te schrappen, alleen om er keuzes naast te zetten.
 
